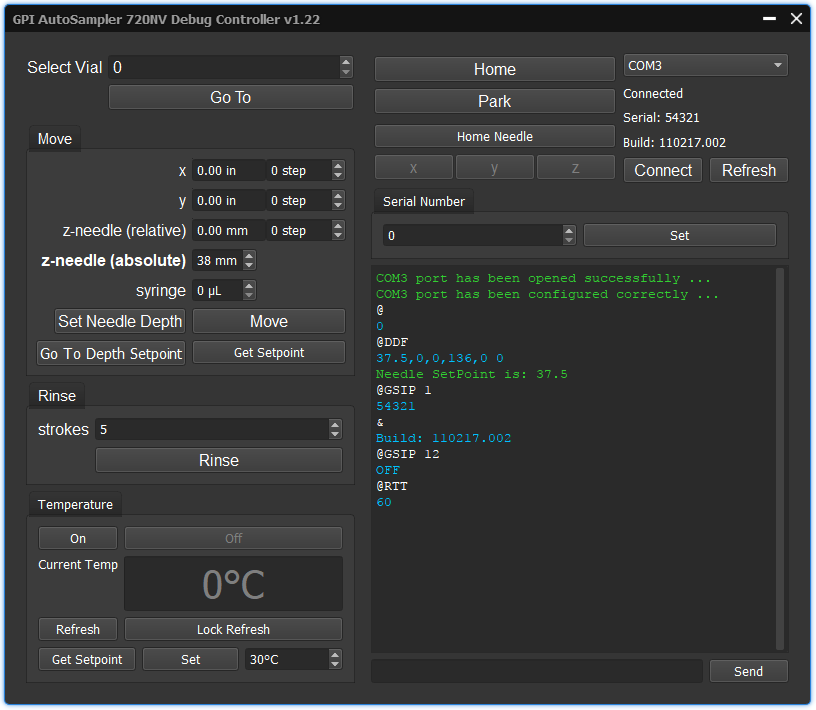
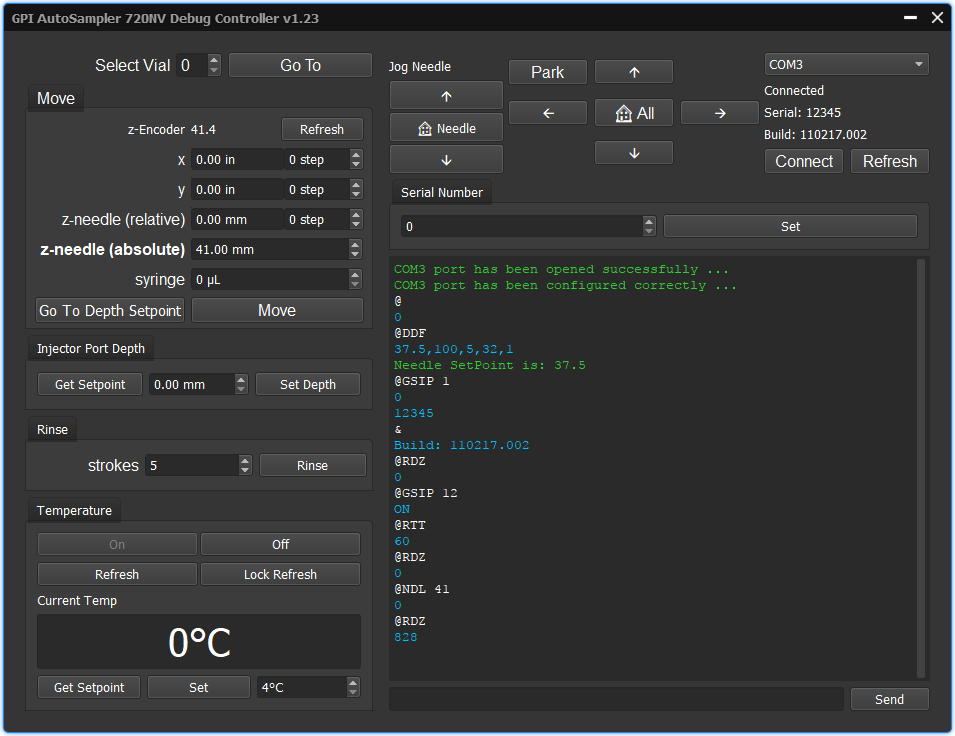
🍎  change ui for mac. Fix deployment errors. Update screenshot.

Changed region(s): [[0.0, 0.0, 1.0, 1.0], [0.1225, 0.1549, 0.2145, 0.1859]]

diff --git a/src/gpicontroller.cpp b/src/gpicontroller.cpp
@@ -78,7 +78,7 @@ void gpicontroller::open_port(QString portname)
         port->open(QIODevice::ReadWrite);
     }
     // Check the validity of the port
-    if ( !port->error()==QSerialPort::NoError )
+    if ( !(port->error()==QSerialPort::NoError) )
     {
         qDebug() << "\nError: " << port->portName() << " port can't be opened ...";
         ui->console->append(port->portName()+" port can't be opened ...");

diff --git a/src/serialbuffer.h b/src/serialbuffer.h
@@ -108,6 +108,8 @@ class serialBuffer : public QObject
         template<class T>
         int append(const QString &c,T* p)
         {
+            qDebug() << c;
+            qDebug() << p;
 //            if (commandList.)
 //            {
 //                command<T>(c,p);
